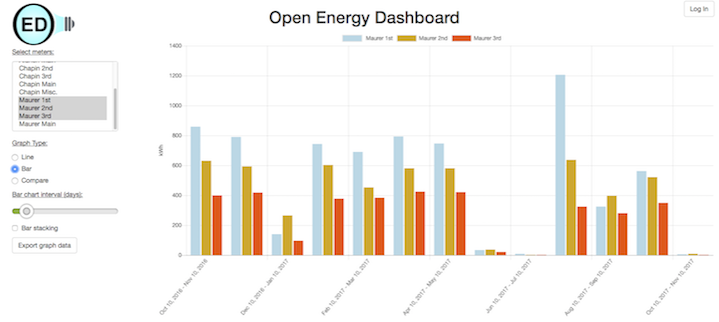
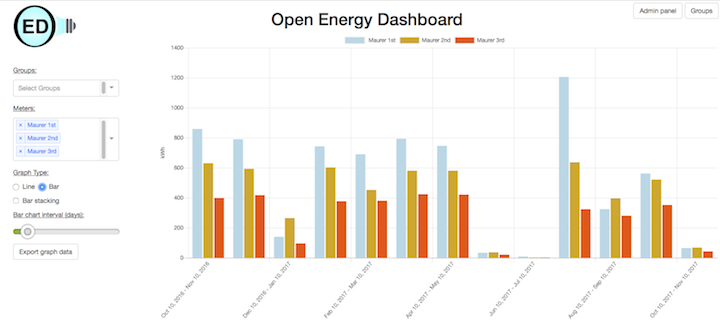
update images for new version of OED

diff --git a/features.html b/features.html
@@ -68,7 +68,12 @@ title: OED features
 		<img alt="OED Groups of second floor meters" src="images/OEDGroupsSecondFloors.png" />
 		<br>and here you can see the three floors (first, second and third) groups combined
 		to form a new group of all the floors in all three buildings:<br>
-		<img alt="OED Groups of all floors" src="images/OEDGroupsAllFloors.png" /></p>
+		<img alt="OED Groups of all floors" src="images/OEDGroupsAllFloors.png" /><br>
+		Here is a graph combining the three floors (first, second and third) groups and all floor group
+		 with the Aldrich Ground meter. This was needed since the ground floor is not
+		 included in the other three floors. This also demonstrates you can graph any
+		 arbitrary combination of groups and meters:<br>
+		<img alt="OED Groups of all floors" src="images/OEDGroupsAllFloorsGraph.png" /></p>
 	<h2>Baselining</h2>
 	<p>At many institutions, people want to know the baseline energy
 		usage for a meter that represents usage when the building is not in
@@ -117,7 +122,14 @@ title: OED features
 		automatically adjusts to the screen resolution. Thus, menus will
 		adjust size and ultimately become dropdown as the screen size (really
 		the browser window) gets smaller. This means the system will work on
-		everything from a large monitor to a tablet to a cell phone.</p>
+		everything from a large monitor to a tablet to a cell phone. We are working to make 
+		this even more responsive, 
+		but here is a screen shot on a lower end smart phone with 480x800 pixel 
+		resolution:<br>
+		<img alt="Cell phone screen shot" src="images/OEDCellPhone.png" /><br>
+		and if you click on the options button a menu will appear (this would be visible
+		on a higher resolution screen as shown in the images above):
+		<img alt="Cell phone menu screen shot" src="images/OEDCellPhoneMenu.png" /></p>
 	<h2>Other features</h2>
 	There are other features that we mention here. Please let us know if
 	you want more details on them.
